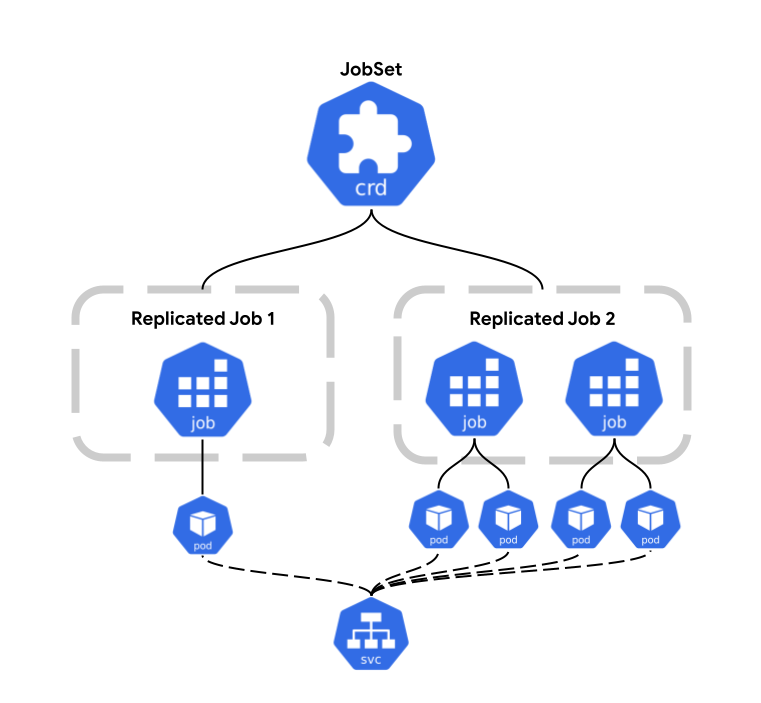
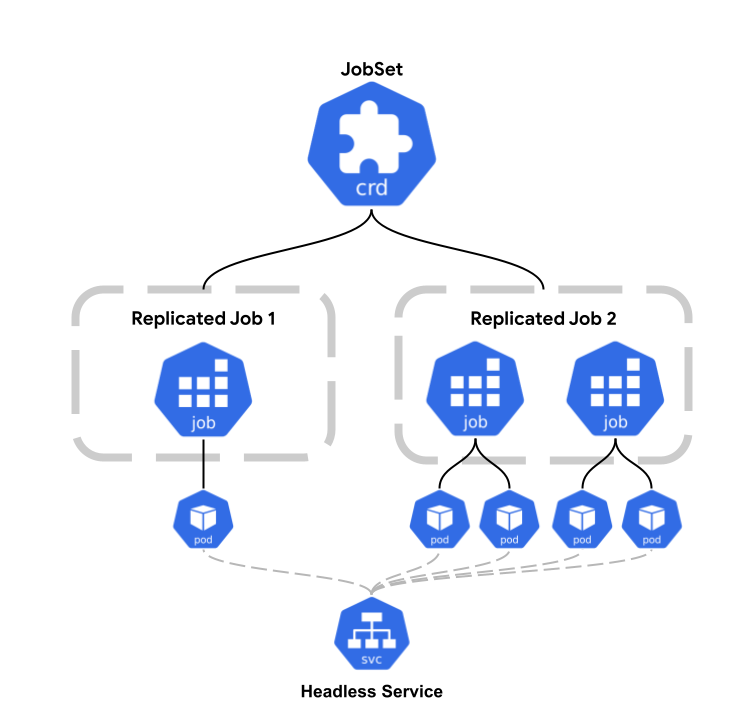
add headless svc caption

Changed region(s): [[0.4008, 0.0896, 0.9558, 0.9858], [0.0925, 0.3286, 0.4625, 0.8065], [0.3083, 0.8065, 0.4008, 0.8364]]

diff --git a/README.md b/README.md
@@ -25,7 +25,7 @@ Read the [installation guide](/docs/setup/install.md) to learn more.
 
 ## Troubleshooting common issues
 
-See the [troubleshoting](/docs/troubleshooting/README.md) docs for help resolving common issues.
+See the [troubleshooting](/docs/troubleshooting/README.md) guide for help resolving common issues.
 
 
 ## Community, discussion, contribution, and support
